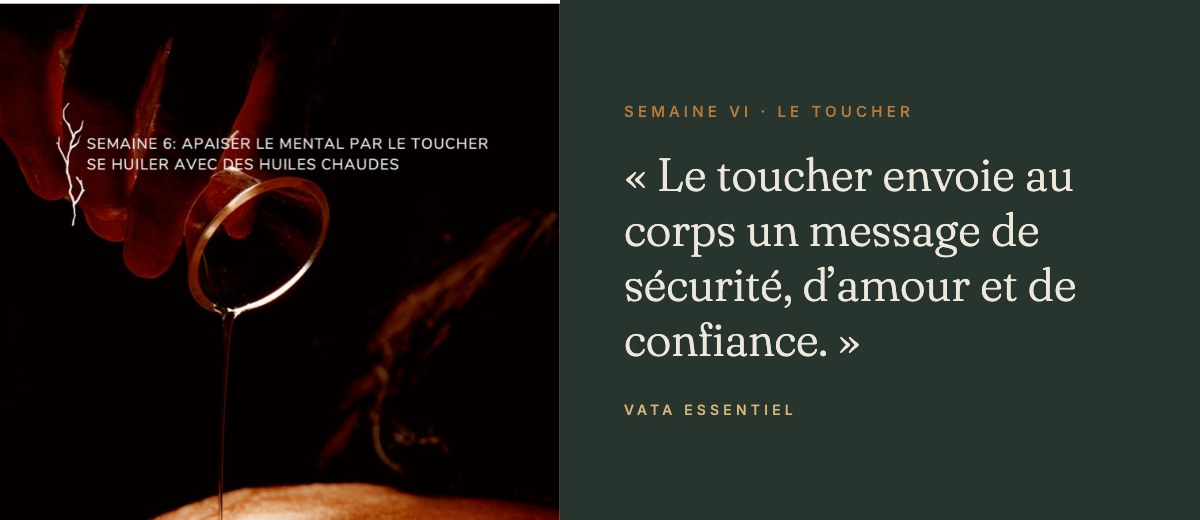
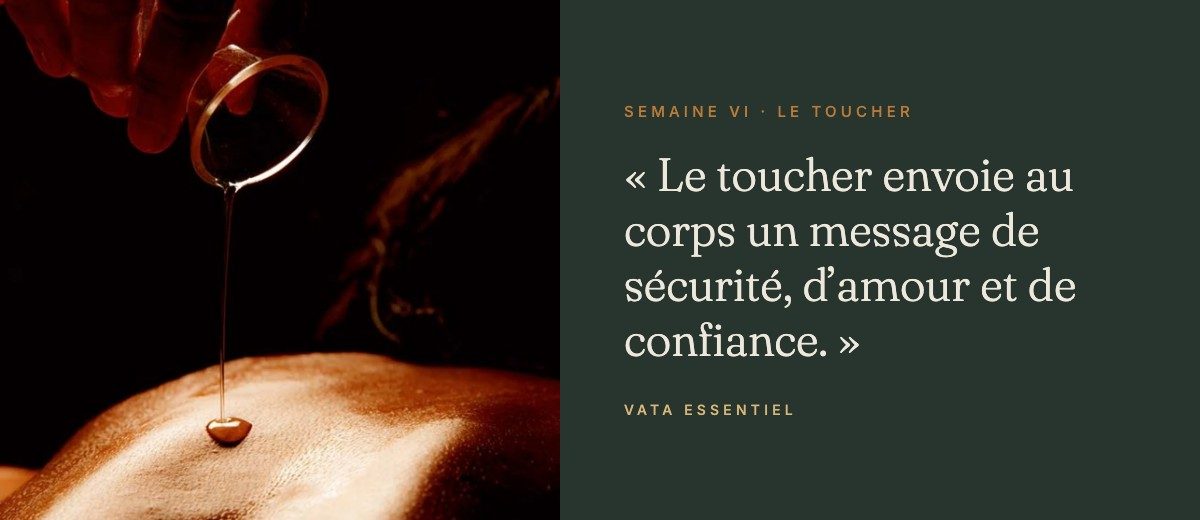
VATA Essentiel : nouveaux visuels des semaines tirés des PDF (plus de fleurs gelées ni de t-shirt); bannières d'infolettre refaites

Changed region(s): [[0.0, 0.0, 0.4933, 1.0]]

diff --git a/src/pages/vata/semaines.ts b/src/pages/vata/semaines.ts
@@ -27,9 +27,9 @@ export interface SemaineVata {
 }
 
 const img = (n: number) => ({
-  image: `/vata/semaines/s${n}.webp`,
-  bandeau: `/vata/semaines/s${n}-large.webp`,
-  vignette: `/vata/semaines/s${n}-thumb.webp`,
+  image: `/vata/semaines/v2-s${n}.webp`,
+  bandeau: `/vata/semaines/v2-s${n}-large.webp`,
+  vignette: `/vata/semaines/v2-s${n}-thumb.webp`,
 });
 
 export const SEMAINES_VATA: SemaineVata[] = [
